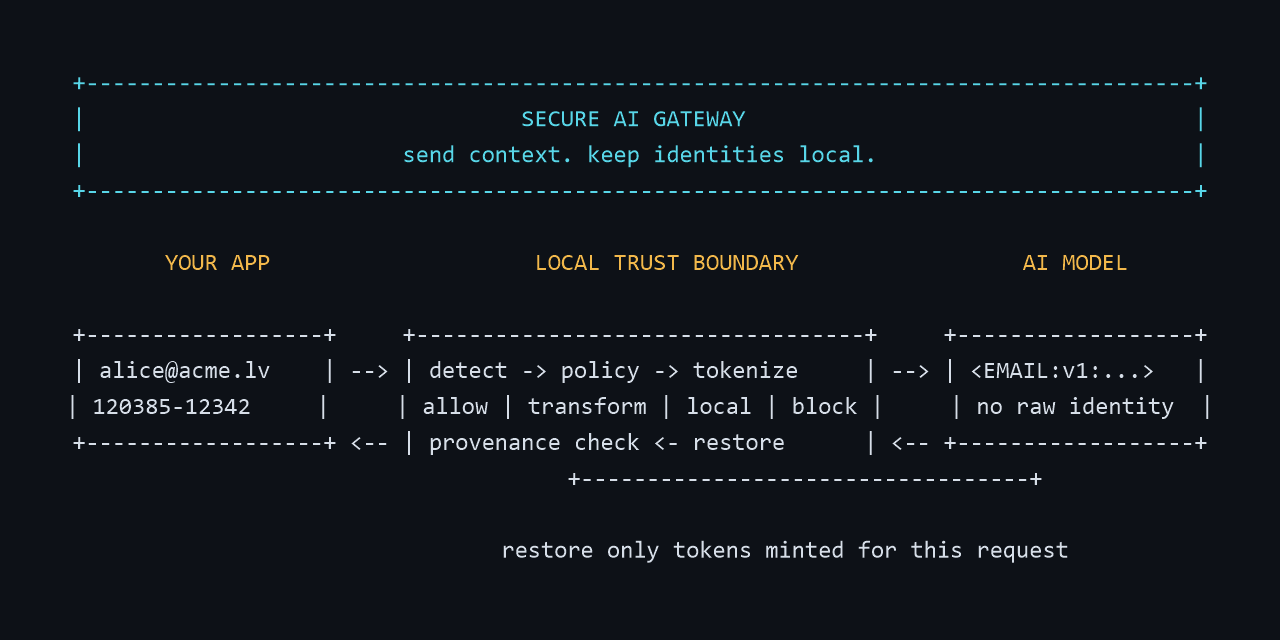
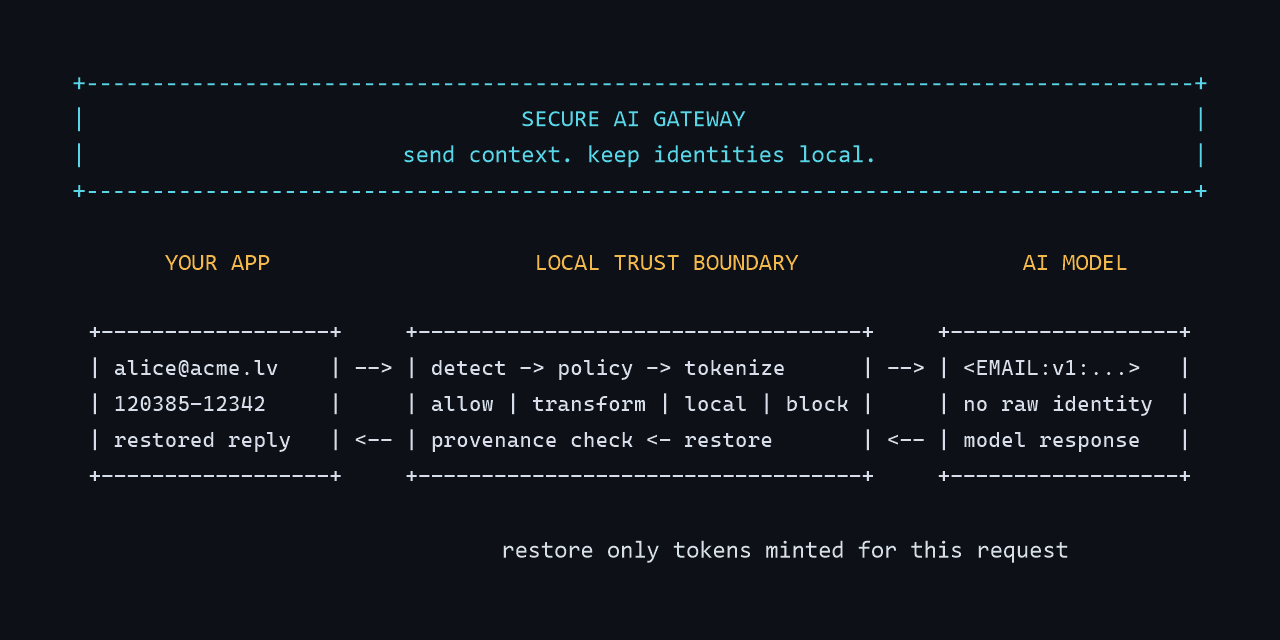
Tighten the README and clean up diagrams

diff --git a/README.md b/README.md
@@ -2,11 +2,11 @@
 
 **Send context to the model. Keep identities local.**
 
-A self-hosted privacy firewall for OpenAI-compatible LLM traffic. It finds
-sensitive values, applies policy, replaces approved values with scoped tokens,
-and restores only tokens that were minted for the current request.
+Secure AI Gateway sits between your app and an OpenAI-compatible model. It
+detects sensitive values, applies your policy, replaces approved values with
+scoped tokens, and restores only tokens created for the same request.
 
-[![Status: alpha](https://img.shields.io/badge/status-alpha-f59e0b)](#security-status)
+[![Status: alpha](https://img.shields.io/badge/status-alpha-f59e0b)](#current-limits)
 [![Python 3.12](https://img.shields.io/badge/python-3.12-3776AB?logo=python&logoColor=white)](pyproject.toml)
 [![Apache-2.0](https://img.shields.io/badge/license-Apache--2.0-2ea44f)](LICENSE)
 
@@ -18,26 +18,19 @@ and restores only tokens that were minted for the current request.
 
  YOUR APP                    LOCAL TRUST BOUNDARY                 AI MODEL
 
-+------------------+     +----------------------------------+     +------------------+
-| alice@acme.lv    | --> | detect -> policy -> tokenize     | --> | <EMAIL:v1:...>   |
++------------------+     +-----------------------------------+     +------------------+
+| alice@acme.lv    | --> | detect -> policy -> tokenize      | --> | <EMAIL:v1:...>   |
 | 120385-12342     |     | allow | transform | local | block |     | no raw identity  |
-+------------------+ <-- | provenance check <- restore      | <-- +------------------+
-                         +----------------------------------+
+| restored reply   | <-- | provenance check <- restore       | <-- | model response   |
++------------------+     +-----------------------------------+     +------------------+
 
                       restore only tokens minted for this request
 ```
 
-The deterministic offline demo makes the boundary observable: it prints the
-exact request seen by the mock provider and proves that a forged token is not
-restored.
+The offline demo prints the exact request seen by a deterministic mock provider
+and checks that the gateway refuses to restore a forged token.
 
 [![Secure AI Gateway proof-of-concept request flow](docs/assets/poc-schematic.svg)](docs/assets/poc-schematic.svg)
-
-Editable source: [poc-schematic.drawio](docs/assets/poc-schematic.drawio).
-
-> [!WARNING]
-> This is an alpha and has not had an independent security review. Use synthetic
-> data while evaluating it. Do not put it in front of production traffic yet.
 
 ## Why it exists
 
@@ -45,8 +38,8 @@ Plain redaction removes information the model needs. Predictable placeholders
 such as `<PERSON_1>` keep some structure, but they are easy to guess or replay.
 
 Secure AI Gateway mints typed HMAC tokens scoped to a tenant and conversation.
-The restoration path also checks per-request provenance, so a well-formed token
-from another request stays opaque even if it exists in the local vault.
+Before restoration, it checks that each token came from the current request. A
+valid token from another request therefore stays opaque.
 
 ```text
 app -> authenticate -> inspect -> policy -> tokenize -> provider
@@ -80,9 +73,9 @@ py -3 -m venv .venv
 
 If you have GNU Make, `make setup && make demo` runs the same path.
 
-The demo covers an ordinary request, email tokenization, local routing for a
-Latvian personal code, credential blocking, a customer dictionary term, and a
-forged-token restoration attempt. It prints exactly what the provider received.
+The demo covers email tokenization, local routing for a Latvian personal code,
+credential blocking, a customer dictionary term, and a forged-token restoration
+attempt. It prints exactly what the provider received.
 
 ## Connect a client
 
@@ -132,9 +125,8 @@ changing the egress or private-network settings.
 
 Deterministic detectors work without model downloads. The evaluation harness
 reports precision and recall per entity and language against versioned synthetic
-corpora. Those results are regression evidence, not a claim about real-world
-recall; the [evaluation report](docs/evaluation-report.md) publishes the sample
-sizes and caveats.
+corpora. The [evaluation report](docs/evaluation-report.md) lists the sample
+sizes, results, and coverage boundaries.
 
 ## Security choices
 
@@ -154,14 +146,14 @@ sizes and caveats.
   on every request. Ambient proxy variables are ignored unless explicitly
   enabled.
 
-The design is backed by adversarial, property, leakage, policy, egress, and
-vault tests. Read the [threat model](docs/threat-model.md) and
+Tests cover adversarial inputs, token properties, data leakage, policy, egress,
+and vault behavior. Read the [threat model](docs/threat-model.md) and
 [security invariants](docs/security-invariants.md) before relying on a claim.
 
-## Security status
+## Current limits
 
-The current build is suitable for review and synthetic-data pilots. Important
-limits remain:
+The current build supports local evaluation and synthetic-data pilots. Its
+boundaries are explicit:
 
 - PERSON, ORG, LOCATION, and ADDRESS detection needs an operator-supplied NER
   model. No model artifact ships in this repository.
@@ -171,7 +163,6 @@ limits remain:
   support a multi-node deployment.
 - Detector execution has no hard timeout, and custom regular expressions must
   be treated as trusted configuration.
-- No independent security review has been completed.
 
 The full, current list is in [known limitations](docs/limitations.md). Report a
 vulnerability privately using [SECURITY.md](SECURITY.md); do not open a public
@@ -211,11 +202,9 @@ security rules, audits the locked Python dependencies through the virtualenv's
 Trivy when those commands are available. A missing external scanner is reported
 and skipped. A finding or error from a scanner that does run fails the target.
 
-These local commands do not produce a complete release evidence set. `make sbom`
-covers the source tree. GitHub Actions adds the container SBOM and Trivy
-report, runs the container hardening tests, and signs and attests tagged
-releases. The current evidence gap is recorded in [known
-limitations](docs/limitations.md).
+`make sbom` covers the source tree. GitHub Actions also produces a container
+SBOM and Trivy report, runs the container hardening tests, and signs and attests
+tagged releases.
 
 Recognizer contributions are especially useful when they cite a published
 identifier format, validate its checksum, and include both positive and boundary

diff --git a/docs/limitations.md b/docs/limitations.md
@@ -49,10 +49,6 @@ closed.
   scores primarily test segmentation and known boundary cases.
 - Performance numbers are machine-local regression signals, not an SLO or a
   published capacity claim.
-- No independent security review has been performed.
-- This checkout has no Git remote and no published Actions run to cite.
-  Container SBOM, Trivy image scanning, hardening tests, signing, and provenance
-  therefore lack public release evidence.
 - The base image is still referenced without a release digest, so the release
   image gate intentionally refuses to publish.
 
